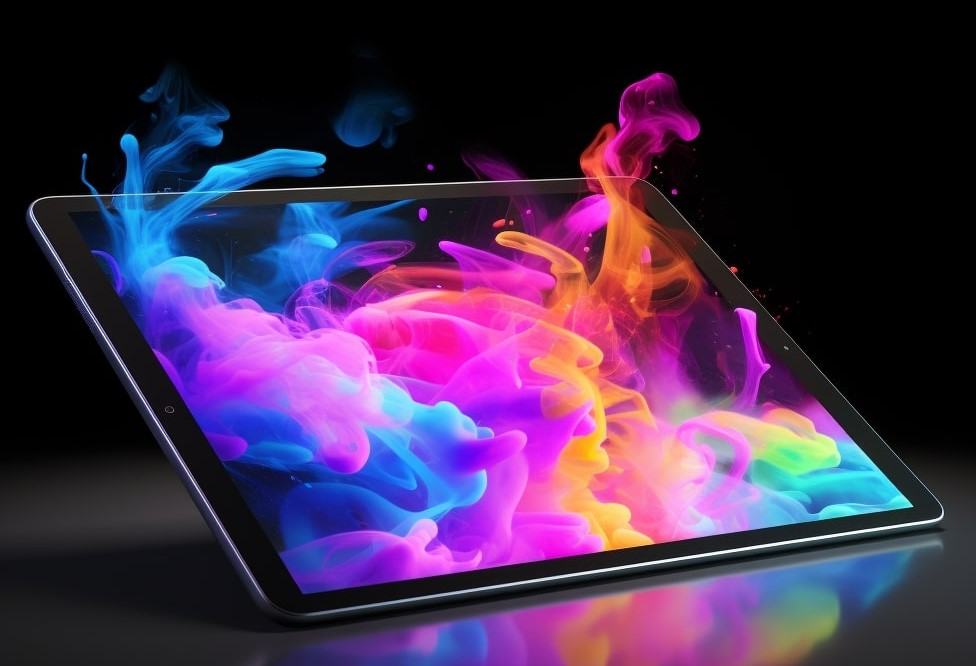
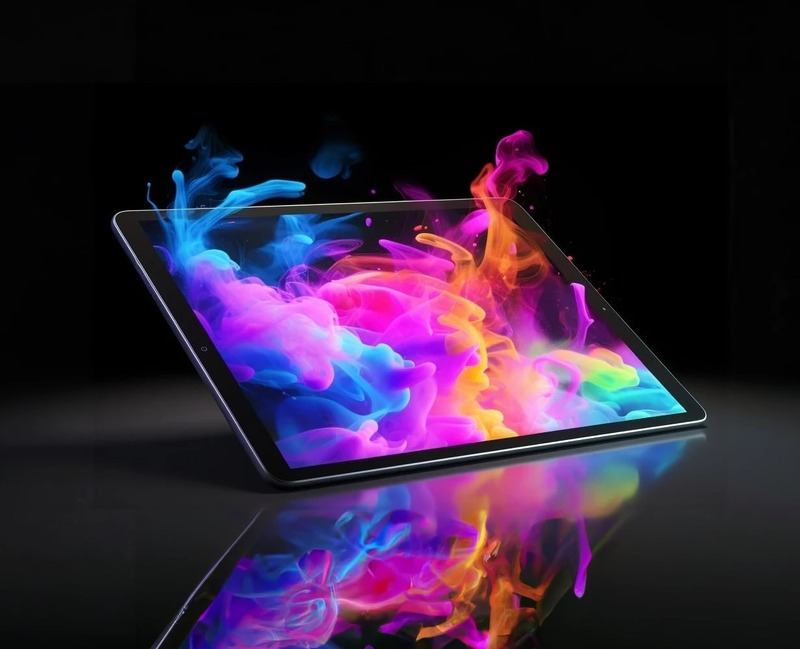
index gallery mod

diff --git a/src/components/home/IndexTxt.vue b/src/components/home/IndexTxt.vue
@@ -9,11 +9,17 @@
         >
           <h2 class="index-txt__part__column__words__word">Audits</h2>
         </NuxtLink>
-        <div class="index-txt__part__column__image-card" alt="grey laptop mockup">
+        <div class="index-txt__part__column__wrapper">
           <AuditPopUp />
+          <img
+            class="index-txt__part__column__wrapper__img"
+            src="@/assets/images/grey-tablet.jpg"
+            alt="image tablette site web"
+          />
         </div>
       </div>
       <div class="index-txt__part__column2">
+        <img class="index-txt__part__column2__img" src="@/assets/images/grey-phone.jpg" alt="site web" />
         <div class="index-txt__part__column2__card">
           <h2 class="index-txt__part__column2__card__title">
             Lorem ipsum dolor sit amet consectetur adipisicing elit.
@@ -23,7 +29,13 @@
             optio odio veniam similique saepe ipsum! Non veniam sunt maxime u accusamus dolores ab?
           </p>
         </div>
-        <img class="index-txt__part__column2__img" src="@/assets/images/grey-phone.jpg" alt="site web" />
+        <NuxtLink
+          class="index-txt__part__column__words"
+          to="/prestations/audit-optimisatio-site-web"
+          aria-label="audits"
+        >
+          <h2 class="index-txt__part__column__words__word">SEO</h2>
+        </NuxtLink>
       </div>
     </div>
   </section>
@@ -43,20 +55,19 @@
     flex-direction: row;
   }
 
-  @media (min-width: $desktop-screen) {
-    padding: 2rem;
-  }
-
   &__part {
     display: flex;
-    width: 100vw;
+    width: 100%;
     justify-content: center;
     gap: 2rem;
     flex-direction: column;
-    padding: 2rem;
 
     @media (min-width: $big-tablet-screen) {
       flex-direction: row;
+    }
+
+    @media (min-width: $super-big-screen) {
+      gap: 4rem;
     }
 
     &__column {
@@ -70,17 +81,32 @@
       @media (min-width: $big-tablet-screen) {
         flex-direction: row;
       }
+      @media (min-width: $super-big-screen) {
+        gap: 4rem;
+      }
 
-      &__image-card {
-        width: clamp(300px, 100%, 700px);
-        height: 100%;
-        border-radius: $radius;
-        background-size: cover;
-        background-position: center;
-        align-items: flex-end;
+      &__wrapper {
         display: flex;
-        padding: 2rem;
-        background-image: url('@/assets/images/grey-phone.jpg');
+        flex-direction: column;
+        gap: 2rem;
+        height: 100%;
+        width: 100%;
+
+        @media (min-width: $super-big-screen) {
+          gap: 4rem;
+        }
+
+        &__img {
+          width: 100%;
+          height: 100%;
+          max-height: 500px;
+          border-radius: $radius;
+          object-fit: cover;
+
+          @media (min-width: $super-big-screen) {
+            max-height: 700px;
+          }
+        }
       }
 
       &__words {
@@ -96,6 +122,9 @@
         @media (min-width: $big-tablet-screen) {
           max-width: 8rem;
           height: fit-content;
+        }
+        @media (min-width: $super-big-screen) {
+          max-width: 10rem;
         }
 
         &__word {
@@ -129,6 +158,10 @@
             line-height: 84px;
             font-size: 5.6rem;
           }
+          @media (min-width: $super-big-screen) {
+            line-height: 100px;
+            font-size: 7rem;
+          }
         }
 
         @keyframes bg {
@@ -147,6 +180,9 @@
       display: flex;
       flex-direction: column;
       gap: 2rem;
+      @media (min-width: $super-big-screen) {
+        gap: 4rem;
+      }
 
       &__card {
         padding: 2rem;

diff --git a/src/components/audit/PopUp.vue b/src/components/audit/PopUp.vue
@@ -23,7 +23,7 @@ let isBookAnAuditOpen = ref(false)
 <style lang="scss" scoped>
 .pop-up {
   display: flex;
-  width: clamp(300px, 100%, 600px);
+  width: clamp(300px, 100%, 700px);
   justify-content: center;
   flex-direction: column;
   align-items: center;
